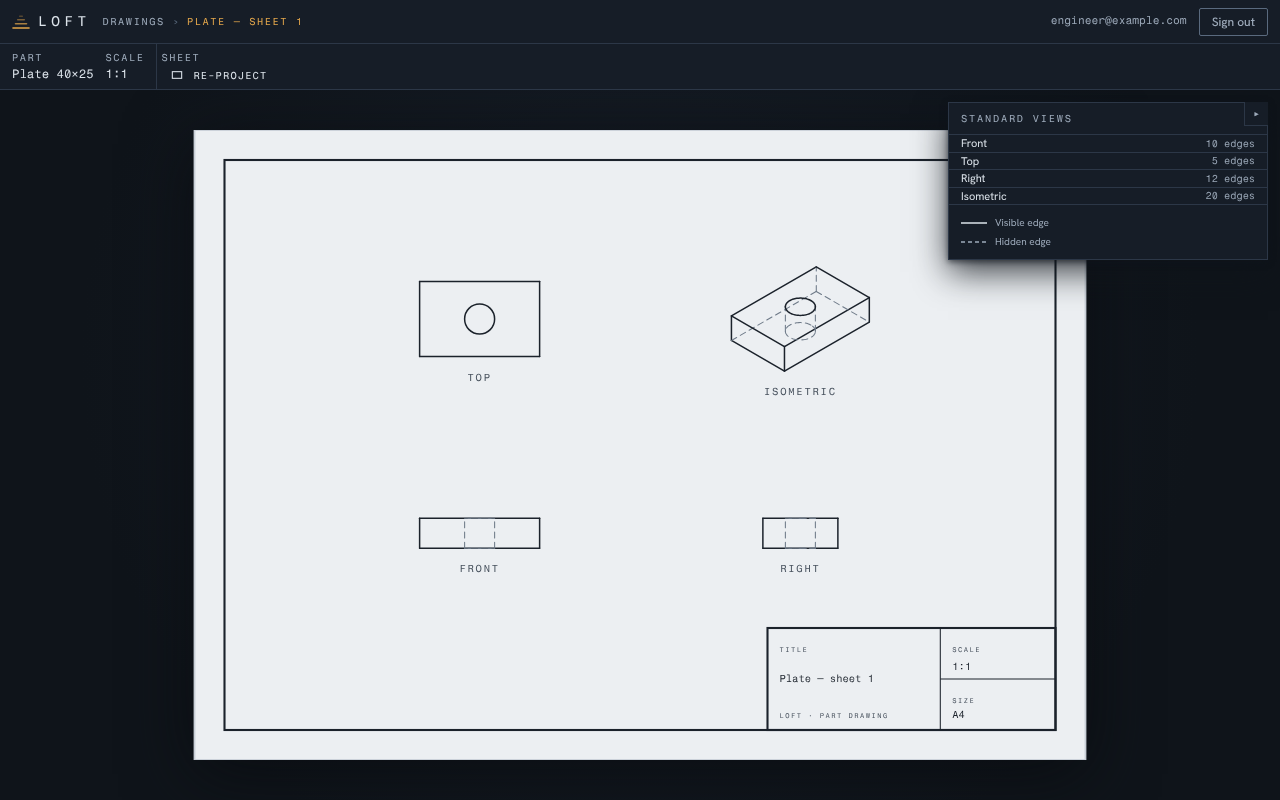
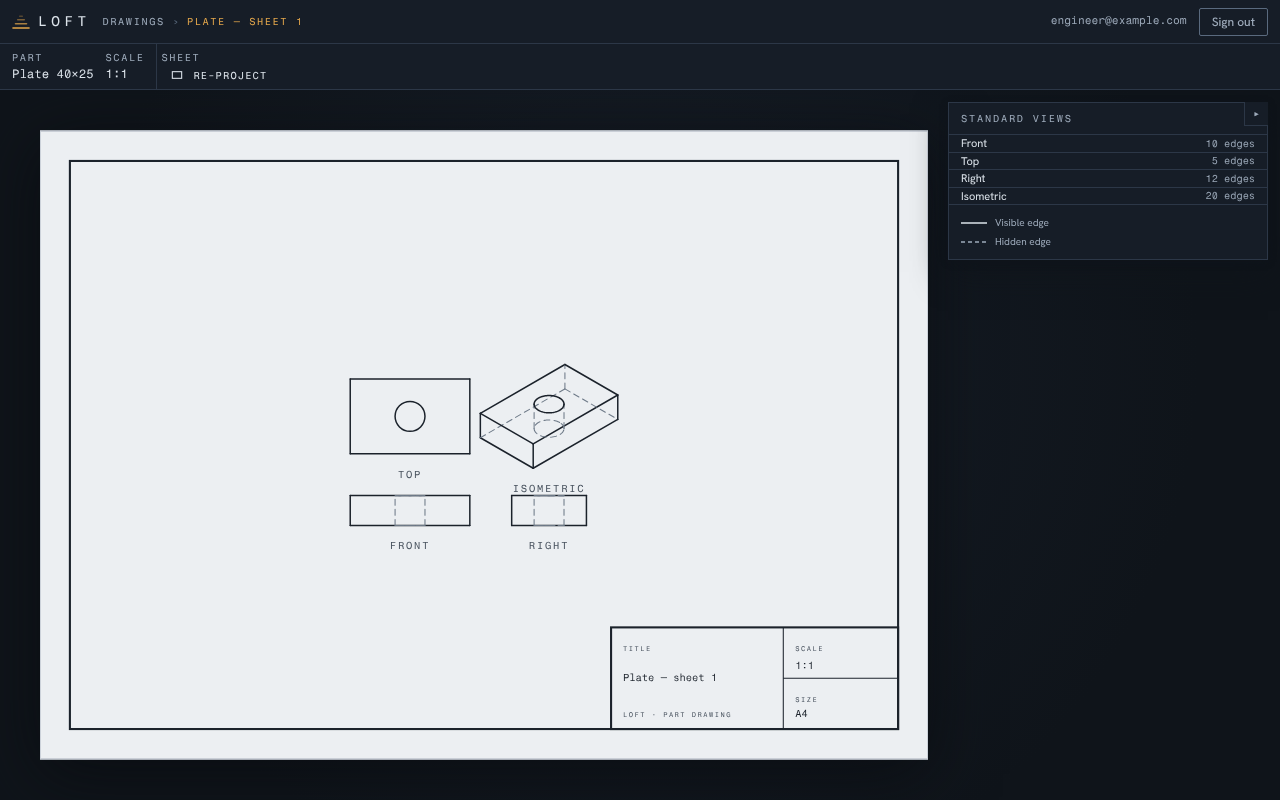
fix(web): bounds-aware drawing layout + unocclude sheet + gate band (review)
Findings from the drawing-canvas code review + frontend-QA:

- 🟡 (code review) Views were placed at FIXED sheet fractions, so any part
  taller than ~71mm / wider than ~107mm overlapped adjacent views. New
  `boundsAwareLayout` spaces the four views by their own projected extents + a
  gutter (preserving third-angle: top shares front's X above it, right shares
  front's Y beside it, iso upper-right), then centres the arrangement — no
  overlap at any part size, and the render is now scale-honest (a 40mm plate
  reads small at 1:1, as it physically should). Falls back to the fixed spread
  when no view has geometry. 4 new unit tests (12 total).

- P2 (frontend-QA) The Views panel occluded the sheet's framed top-right
  corner. The sheet container now reserves a right gutter (`lg:pr-[22rem]`) and
  the panel passes a tighter `maxHeightClassName` (a 2D sheet has no r3f gizmo
  cube to clear). Refreshed founder screenshots show the full framed sheet.

- P2 (frontend-QA) The command band invited "Lay out" while the drawing was
  still loading (could fire against doc_version=0). It now renders only on
  `drawingQuery.isSuccess`.

UI-REVIEW P2s marked resolved. Full web tsc/eslint/prettier + layout unit tests
+ drawings e2e green.

Claude-Session: https://claude.ai/code/session_018EkmzN3wYY512Fp8b5DedE

diff --git a/apps/web/src/drawing/layout.ts b/apps/web/src/drawing/layout.ts
@@ -70,6 +70,8 @@ export function sheetDimensions(
 export const SHEET_MARGIN_MM = 10;
 /** Title-block box (mm), seated in the bottom-right corner inside the border. */
 export const TITLE_BLOCK_MM = { width: 96, height: 34 } as const;
+/** Clear space (mm) between adjacent views' bounding boxes. */
+export const VIEW_GUTTER_MM = 14;
 
 export interface Anchor {
   /** View-centre X in sheet mm (origin bottom-left, y-UP). */
@@ -150,6 +152,81 @@ export function viewBounds(
     min: { x: minX, y: minY },
     max: { x: maxX, y: maxY },
     center: { x: (minX + maxX) / 2, y: (minY + maxY) / 2 },
+  };
+}
+
+/**
+ * Bounds-aware third-angle placement: spaces the four views by their OWN
+ * projected extents (+ a gutter) instead of fixed sheet fractions, so views
+ * never overlap for a part taller/wider than the demo plate, then centres the
+ * whole arrangement in the sheet. Preserves the third-angle relations — top
+ * shares front's X (sits above), right shares front's Y (sits to the right),
+ * iso fills the free upper-right — so projection alignment still reads. Falls
+ * back to the fixed `standardLayout` when no view has any geometry yet.
+ *
+ * Half-extents come from each view's `viewBounds`; a missing/empty view
+ * contributes zero extent. Scale still fits large parts via the scale picker
+ * (this only prevents overlap, not sheet overrun).
+ */
+export function boundsAwareLayout(
+  boundsByProjection: Partial<Record<ViewProjection, Bounds2D | null>>,
+  dims: SheetDims,
+): Record<ViewProjection, Anchor> {
+  const half = (v: ViewProjection): { w: number; h: number } => {
+    const b = boundsByProjection[v] ?? null;
+    if (!b) return { w: 0, h: 0 };
+    return { w: (b.max.x - b.min.x) / 2, h: (b.max.y - b.min.y) / 2 };
+  };
+  const f = half("front");
+  const t = half("top");
+  const r = half("right");
+  const g = VIEW_GUTTER_MM;
+
+  // No view has any geometry yet (all failed/empty): the fixed fractions spread
+  // the placeholders more legibly than clustering them at the centre.
+  const anyGeometry = STANDARD_VIEWS.some((v) => {
+    const h = half(v);
+    return h.w > 0 || h.h > 0;
+  });
+  if (!anyGeometry) return standardLayout(dims);
+
+  // Relative anchors (front at origin, y-UP): top ABOVE front, right to the
+  // RIGHT of front (both spaced by the two half-extents + gutter), iso in the
+  // free upper-right quadrant (aligned with right's X and top's Y).
+  const rel: Record<ViewProjection, Anchor> = {
+    front: { x: 0, y: 0 },
+    top: { x: 0, y: f.h + g + t.h },
+    right: { x: f.w + g + r.w, y: 0 },
+    iso: { x: f.w + g + r.w, y: f.h + g + t.h },
+  };
+
+  // Envelope of the placed views (anchor ± half-extent); centre it in the sheet.
+  const halfOf: Record<ViewProjection, { w: number; h: number }> = {
+    front: f,
+    top: t,
+    right: r,
+    iso: half("iso"),
+  };
+  let minX = Infinity;
+  let minY = Infinity;
+  let maxX = -Infinity;
+  let maxY = -Infinity;
+  for (const v of STANDARD_VIEWS) {
+    const a = rel[v];
+    const hh = halfOf[v];
+    minX = Math.min(minX, a.x - hh.w);
+    maxX = Math.max(maxX, a.x + hh.w);
+    minY = Math.min(minY, a.y - hh.h);
+    maxY = Math.max(maxY, a.y + hh.h);
+  }
+  // `anyGeometry` guaranteed at least one real extent, so the envelope is finite.
+  const dx = dims.width / 2 - (minX + maxX) / 2;
+  const dy = dims.height / 2 - (minY + maxY) / 2;
+  return {
+    front: { x: rel.front.x + dx, y: rel.front.y + dy },
+    top: { x: rel.top.x + dx, y: rel.top.y + dy },
+    right: { x: rel.right.x + dx, y: rel.right.y + dy },
+    iso: { x: rel.iso.x + dx, y: rel.iso.y + dy },
   };
 }
 

diff --git a/apps/web/src/drawing/layout.test.ts b/apps/web/src/drawing/layout.test.ts
@@ -2,6 +2,8 @@ import { describe, expect, it } from "vitest";
 
 import type { ProjectedViewEdge } from "../api/drawings";
 import {
+  VIEW_GUTTER_MM,
+  boundsAwareLayout,
   formatScale,
   sheetDimensions,
   standardLayout,
@@ -49,6 +51,75 @@ describe("standardLayout (third-angle)", () => {
     // Iso fills the free upper-right quadrant.
     expect(anchors.iso.x).toBeGreaterThan(anchors.front.x);
     expect(anchors.iso.y).toBeGreaterThan(anchors.front.y);
+  });
+});
+
+describe("boundsAwareLayout (third-angle, spaced by extent)", () => {
+  // A square view of half-extent `h` centred at origin (projected mm).
+  const squareBounds = (h: number) => ({
+    min: { x: -h, y: -h },
+    max: { x: h, y: h },
+    center: { x: 0, y: 0 },
+  });
+
+  it("preserves third-angle relations", () => {
+    const dims = sheetDimensions("A4", "landscape");
+    const a = boundsAwareLayout(
+      {
+        front: squareBounds(20),
+        top: squareBounds(20),
+        right: squareBounds(20),
+        iso: squareBounds(20),
+      },
+      dims,
+    );
+    expect(a.top.y).toBeGreaterThan(a.front.y); // top above front
+    expect(a.top.x).toBeCloseTo(a.front.x); // shared X
+    expect(a.right.x).toBeGreaterThan(a.front.x); // right of front
+    expect(a.right.y).toBeCloseTo(a.front.y); // shared Y
+  });
+
+  it("spaces adjacent views so their boxes never overlap, even for a large part", () => {
+    // A part far larger than the fixed-fraction gaps (~71/107 mm) used to allow.
+    const dims = sheetDimensions("A4", "landscape");
+    const hw = 90; // half-width 90 → 180 mm wide, dwarfs the sheet fractions
+    const hh = 70;
+    const b = {
+      min: { x: -hw, y: -hh },
+      max: { x: hw, y: hh },
+      center: { x: 0, y: 0 },
+    };
+    const a = boundsAwareLayout({ front: b, top: b, right: b, iso: b }, dims);
+    // front↔top are stacked in Y: the gap between their boxes == the gutter.
+    expect(a.top.y - a.front.y).toBeCloseTo(hh + VIEW_GUTTER_MM + hh);
+    // front↔right are side by side in X: gap == the gutter.
+    expect(a.right.x - a.front.x).toBeCloseTo(hw + VIEW_GUTTER_MM + hw);
+  });
+
+  it("centres the arrangement on the sheet", () => {
+    const dims = sheetDimensions("A4", "landscape");
+    const a = boundsAwareLayout(
+      {
+        front: squareBounds(20),
+        top: squareBounds(20),
+        right: squareBounds(20),
+        iso: squareBounds(20),
+      },
+      dims,
+    );
+    // The envelope of four equal 40mm squares is symmetric; its centre is the
+    // midpoint of front/iso, which must land at the sheet centre.
+    expect((a.front.x + a.iso.x) / 2).toBeCloseTo(dims.width / 2);
+    expect((a.front.y + a.iso.y) / 2).toBeCloseTo(dims.height / 2);
+  });
+
+  it("falls back to the fixed layout when no view has geometry", () => {
+    const dims = sheetDimensions("A4", "landscape");
+    const a = boundsAwareLayout(
+      { front: null, top: null, right: null, iso: null },
+      dims,
+    );
+    expect(a).toEqual(standardLayout(dims));
   });
 });
 

diff --git a/apps/web/src/routes/DrawingPage.tsx b/apps/web/src/routes/DrawingPage.tsx
@@ -230,18 +230,22 @@ export function DrawingPage() {
         />
       </TopBar>
       <TopToolbar>
-        <DrawingCommandBand
-          parts={parts}
-          selectedPartId={selectedPartId}
-          onSelectPart={setSelectedPartId}
-          scaleValue={effectiveScaleValue}
-          onSelectScale={setScaleValue}
-          hasLayout={hasLayout}
-          draftedPartName={draftedPartName}
-          onLayout={handleLayout}
-          onReproject={handleReproject}
-          busy={busy || projecting}
-        />
+        {/* Only once the drawing has loaded — otherwise the band invites "Lay
+            out" against a not-yet-known doc_version (a stale-OCC race). */}
+        {drawingQuery.isSuccess ? (
+          <DrawingCommandBand
+            parts={parts}
+            selectedPartId={selectedPartId}
+            onSelectPart={setSelectedPartId}
+            scaleValue={effectiveScaleValue}
+            onSelectScale={setScaleValue}
+            hasLayout={hasLayout}
+            draftedPartName={draftedPartName}
+            onLayout={handleLayout}
+            onReproject={handleReproject}
+            busy={busy || projecting}
+          />
+        ) : null}
       </TopToolbar>
 
       <main className="relative min-h-0 grow overflow-hidden bg-carbide">
@@ -270,7 +274,9 @@ export function DrawingPage() {
             body="Fetching the sheet."
           />
         ) : hasLayout && sheet ? (
-          <div className="absolute inset-0 flex items-center justify-center p-6 sm:p-10">
+          // Reserve the right gutter for the Views panel so the paper never
+          // slides under it (the panel would clip the sheet's framed corner).
+          <div className="absolute inset-0 flex items-center justify-center p-6 sm:p-10 lg:pr-[22rem]">
             <DrawingSheet
               sheet={sheet}
               views={views}
@@ -321,7 +327,14 @@ export function DrawingPage() {
         ) : null}
 
         {hasLayout ? (
-          <FloatingPanel side="right" title="Views" id="drawing-views">
+          // A 2D sheet has no r3f gizmo cube, so reclaim the default right-panel
+          // bottom clearance that reserves space for it (frontend-QA P2).
+          <FloatingPanel
+            side="right"
+            title="Views"
+            id="drawing-views"
+            maxHeightClassName="max-h-[calc(100%-4.5rem)]"
+          >
             <ViewsPanel
               projecting={projecting}
               resultByProjection={resultByProjection}

diff --git a/apps/web/src/components/DrawingSheet.tsx b/apps/web/src/components/DrawingSheet.tsx
@@ -21,9 +21,9 @@ import {
   STANDARD_VIEWS,
   TITLE_BLOCK_MM,
   VIEW_LABEL,
+  boundsAwareLayout,
   formatScale,
   sheetDimensions,
-  standardLayout,
   viewBounds,
   viewToSvgEdges,
   type Anchor,
@@ -240,7 +240,17 @@ export function DrawingSheet({
   title,
 }: DrawingSheetProps) {
   const dims = sheetDimensions(sheet.size, sheet.orientation);
-  const layout = standardLayout(dims);
+  // Space the views by their own projected extents so they never overlap for a
+  // part larger than the demo plate (fixed sheet fractions did — code review).
+  const boundsByProjection: Partial<
+    Record<ViewProjection, ReturnType<typeof viewBounds>>
+  > = {};
+  for (const projection of STANDARD_VIEWS) {
+    const result = resultByProjection.get(projection);
+    boundsByProjection[projection] =
+      result && !result.error ? viewBounds(result.edges ?? []) : null;
+  }
+  const layout = boundsAwareLayout(boundsByProjection, dims);
   const scaleLabel = formatScale(
     views[0]?.scale ?? { numerator: 1, denominator: 1 },
   );

diff --git a/docs/UI-REVIEW.md b/docs/UI-REVIEW.md
@@ -588,6 +588,12 @@ list.
   outside the paper's right edge), and let the drawing route pass a tighter
   `maxHeightClassName` since there's no cube to clear.
   Ref: `drawings-editor-1280.png` (top-right), `FloatingPanel.tsx:35-38`.
+  **✅ RESOLVED (orchestrator, with the code-review bounds-layout fix):** the
+  sheet container now reserves a `lg:pr-[22rem]` right gutter so the paper never
+  slides under the panel, and the Views panel passes
+  `maxHeightClassName="max-h-[calc(100%-4.5rem)]"` (no gizmo cube on a 2D sheet).
+  Refreshed `drawings-editor-1280.png` shows the full framed sheet clear of the
+  panel.
 
 - **P2 — sheet editor — command band invites setup actions while the drawing
   is still loading.** `DrawingPage` renders `DrawingCommandBand` (Part select /
@@ -599,6 +605,9 @@ list.
   optimistic-concurrency race. System fix: gate the band's controls (or a `busy`
   flag) on `drawingQuery.isSuccess`, same as the setup hint is gated on `tree`.
   Ref: `DrawingPage.tsx:232-245, 137-138`.
+  **✅ RESOLVED (orchestrator):** `DrawingCommandBand` now renders only when
+  `drawingQuery.isSuccess`, so no setup action can fire against an unknown
+  `doc_version`.
 
 - **P3 — sheet — title-block captions render sub-legible at laptop width.**
   The `TITLE / SCALE / SIZE` captions are 2.3 mm SVG text; on the 1280 sheet
